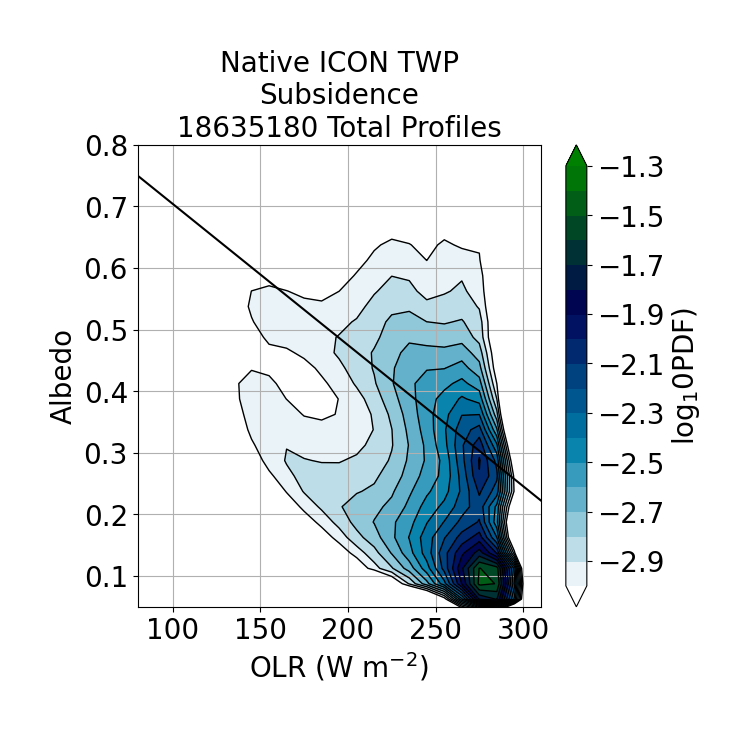
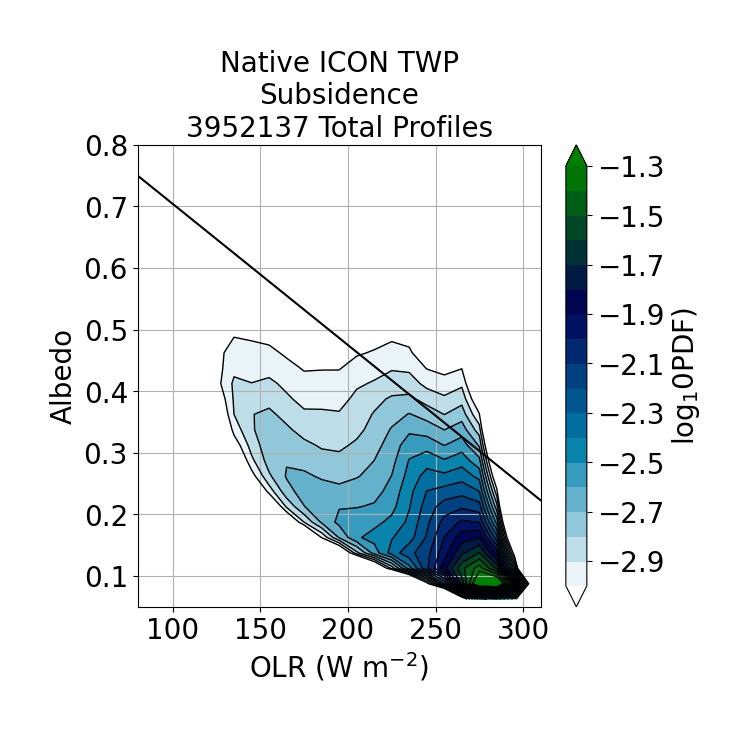
minor adjustment

diff --git a/python_scripts/w_alb-olr_jhist.py b/python_scripts/w_alb-olr_jhist.py
@@ -8,6 +8,7 @@ from utility import load, util
 models = ["ICON","SAM","NICAM"] # need to figure out fix for FV3's mismatched grid points
 regions = ["TWP","SHL","NAU"]
 
+# %%
 for r in regions:
     for m in models:
         # load olr, alb, w, z
@@ -46,10 +47,27 @@ for r in regions:
                 alb_binned = np.where(w[:,ind14km]<=w_thres[1], alb, np.nan)
 
             print(w_string[i], np.nanmean(olr), np.nanmean(alb))
+            if (m=="NICAM") or (m=="SAM"):
+                time_array = w.time
+            elif m=="ICON":
+                time_array = w.t
+            else:
+                raise Exception("model not defined",m)
+            if r=="TWP":
+                time_mask = (time_array.dt.hour.values>=20)
+            elif r=="NAU":
+                time_mask = (time_array.dt.hour.values>=22)or(time_array.dt.hour.values<=2)
+            elif r=="SHL":
+                time_mask = (time_array.dt.hour.values>=11)or(time_array.dt.hour.values<=15)
+            else:
+                raise Exception("region not defined,", r)
+            olr_binned = olr_binned[time_mask]
+            alb_binned = alb_binned[time_mask]
 
             fig, ax = plt.subplots(1,1,figsize=(6.5,6))
             util.dennisplot("density", olr_binned.flatten(), alb_binned.flatten(), 
                         ax=ax, model="Native "+m, region=r+"\n"+w_string[i])
-            plt.savefig("../plots/w_alb-olr_hist_{}_{}_{}.png".format(m,r,w_string[i].lower()),
+            plt.savefig("../plots/w_alb-olr_hist_{}_{}_{}.png".format(m,r,
+                        w_string[i].lower().replace(" ","_")),
                         bbox_inches="tight",pad_inches=0.5)
             plt.show()
